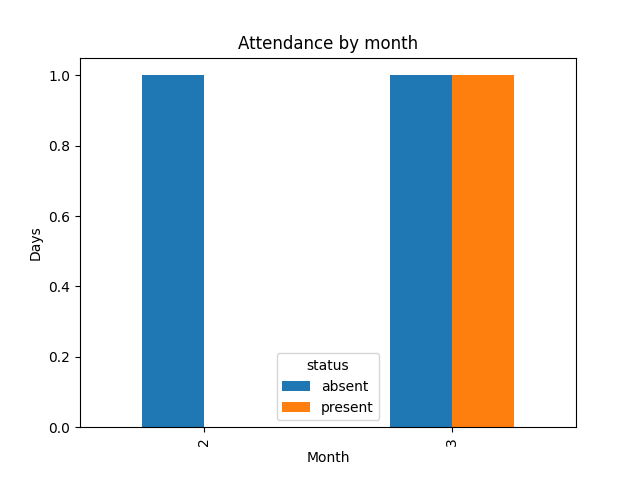
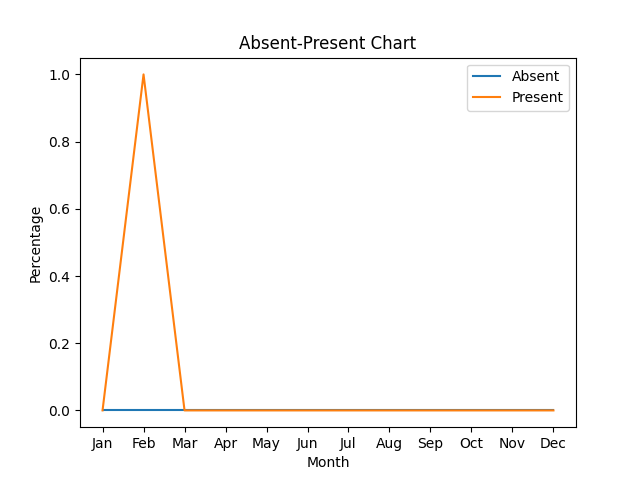
changes

diff --git a/app/student.py b/app/student.py
@@ -6,8 +6,12 @@ import time
 import base64
 import matplotlib.pyplot as plt
 import matplotlib
-import pandas as pd
 import itertools
+
+import pandas as pd
+import numpy as np
+from sklearn.linear_model import LinearRegression
+from sklearn.model_selection import train_test_split
 
 app = FastAPI()
 router = APIRouter()
@@ -25,6 +29,158 @@ def generate_roll_number(class_id):
         roll_number = 1
     return roll_number
 
+def getPrediction(current_mark,attendance,extra_activities):
+    try:
+        # Load the data into a pandas dataframe
+        data = {'Current Marks': [90, 85, 80, 75, 70, 65, 60, 55, 50, 45, 40, 35, 30, 25, 20, 15, 10, 5, 0],
+                'Attendance': [95, 85, 80, 90, 70, 75, 65, 70, 80, 75, 85, 80, 90, 70, 75, 65, 70, 80, 75],
+                'Extra Activities': [1, 1, 1, 0, 0, 0, 1, 1, 1, 0, 0, 0, 1, 1, 1, 0, 0, 0, 1],
+                'Final Marks': [92, 87, 82, 77, 72, 68, 63, 58, 53, 49, 44, 39, 34, 29, 24, 19, 14, 9, 4]}
+
+        df = pd.DataFrame(data)
+        print(len(data['Current Marks']))
+        # Split the data into training and testing sets
+        X = df[['Current Marks', 'Attendance', 'Extra Activities']]
+        y = df['Final Marks']
+        X_train, X_test, y_train, y_test = train_test_split(X, y, test_size=0.2)
+
+        # Train the linear regression model
+        reg = LinearRegression().fit(X_train, y_train)
+
+        # Make predictions on the test data
+        y_pred = reg.predict(X_test)
+
+        # Evaluate the model's accuracy
+        # r2 = reg.score(X_test, y_test)
+        # print("R2 Score:", r2)
+
+        # check accuracy in integer 
+        # print("R2 Score:", int(r2*100))
+
+        # check prediction of given data
+        # print("Prediction:", reg.predict([[90, 95, 1]]))
+        # print("Prediction:", reg.predict([[45, 30, 1]]))
+        predict = reg.predict([[current_mark, attendance, extra_activities ]])
+        predict = int(list(predict)[0])
+
+        return {"status" : True ,"message" : "Prediction found" ,"data":"Predicted marks is "+str(predict)+"%"}
+    except Exception as e:
+        return {"status" : False ,"message" : "Something wrong"}
+
+def getAttendancePerformanceFun(student_id):
+    try:
+        performance = list(db['student_attendance'].aggregate([
+            {
+                '$unwind': {
+                    'path': '$attendance'
+                }
+            }, {
+                '$match': {
+                    'attendance.student_id': ObjectId(student_id)
+                }
+            }, {
+                '$lookup': {
+                    'from': 'class', 
+                    'localField': 'class_id', 
+                    'foreignField': '_id', 
+                    'as': 'result'
+                }
+            }, {
+                '$lookup': {
+                    'from': 'students', 
+                    'localField': 'attendance.student_id', 
+                    'foreignField': '_id', 
+                    'as': 'student_result'
+                }
+            }, {
+                '$project': {
+                    'class_id': 1, 
+                    'class_name': {
+                        '$arrayElemAt': [
+                            '$result.name', 0
+                        ]
+                    }, 
+                    'student_name': {
+                        '$arrayElemAt': [
+                            '$student_result.first_name', 0
+                        ]
+                    }, 
+                    'date': {
+                        '$toDate': '$date'
+                    }, 
+                    'attendance': 1
+                }
+            }, {
+                '$group': {
+                    '_id': {
+                        'month': {
+                            '$month': '$date'
+                        }, 
+                        'status': '$attendance.status'
+                    }, 
+                    'count': {
+                        '$sum': 1
+                    }
+                }
+            }, {
+                '$project': {
+                    'month': '$_id.month', 
+                    'status': '$_id.status', 
+                    'count': 1, 
+                    '_id': 0
+                }
+            }
+        ]))
+        if not performance:
+            return {"status" : False ,"message" : "Data not found" ,"data":""}
+        #avargae attendance percentage of student
+        total_days = 0
+        present_days = 0
+        month = []
+        absent = []
+        present = []
+        for i in performance:
+            if i['status'] == 'present':
+                present_days += i['count']
+            total_days += i['count']
+        attendance_percentage = (present_days/total_days)*100 
+        # group performance array by month
+        performance = sorted(performance, key=lambda k: k['month'])
+        performance = [list(v) for k, v in itertools.groupby(performance, key=lambda k: k['month'])]
+        # months in string
+        months = ['Jan', 'Feb', 'Mar', 'Apr', 'May', 'Jun', 'Jul', 'Aug', 'Sep', 'Oct', 'Nov', 'Dec']
+        absent = [0] * 12  # Initialize absent list with 0 for all 12 months
+        present = [0] * 12  # Initialize present list with 0 for all 12 months
+
+        for item in performance:
+            for record in item:
+                if record['status'] == 'absent':
+                    absent[record['month'] - 1] = record['count']
+                elif record['status'] == 'present':
+                    present[record['month'] - 1] = record['count']  
+        matplotlib.pyplot.switch_backend('Agg')
+        # df = pd.DataFrame(performance)
+        
+        # Plot the data
+        plt.plot(months, absent, label='Absent')
+        plt.plot(months, present, label='Present')
+
+        # Set the chart title and labels
+        plt.title('Absent-Present Chart')
+        plt.xlabel('Month')
+        plt.ylabel('Percentage')
+
+        # Show the legend
+        plt.legend()
+
+        # Show the chart
+        # plt.show()
+
+        plt.savefig('./images/student_attendance_performance_report.png')
+        return attendance_percentage
+    except Exception as e:
+        print(e)
+        return {"status" : False ,"message" : "Something wrong"}
 
 @router.get("/attendance")
 def getAllAttendance():
@@ -173,7 +329,7 @@ def getPerformance(student_id,class_id):
         # Save the chart to a file
         plt.savefig('./images/student_performance_report.png')
 
-        getAttendancePerformance(student_id)
+        attendance_percentage = getAttendancePerformanceFun(student_id)
 
         # Get the list of marks
         marks = performance[0]['marks']
@@ -182,14 +338,24 @@ def getPerformance(student_id,class_id):
 
         # Create a dictionary to store the grouped data
         grouped_data = {}
+        total_mark = 0
+        total_obtained_mark = 0
         # Loop through the grouped marks
         for exam_name, marks in grouped_marks:
             # Convert the marks iterator to a list
             marks = list(marks)
             # Add the exam_name and marks to the grouped data dictionary
             grouped_data[exam_name] = marks
-
-        return {"status" : True ,"message" : "Performance found" ,"data":json.loads(json.dumps(grouped_data,default=str)),"mark":base64.b64encode(open('./images/student_performance_report.png', 'rb').read()).decode('utf-8'),"attendance":base64.b64encode(open('./images/student_attendance_performance_report.png', 'rb').read()).decode('utf-8')}
+            # Loop through the marks
+            for mark in marks:
+                # Add the mark to the total
+                total_mark += mark['out_of']
+                total_obtained_mark += mark['obtained_mark']
+        # Calculate the average
+        average = total_obtained_mark / total_mark * 100
+        # call prediction function
+        prediction = getPrediction(average,attendance_percentage,1)
+        return {"status" : True ,"message" : "Performance found" ,"data":json.loads(json.dumps(grouped_data,default=str)),"prediction":prediction['data'],"mark":base64.b64encode(open('./images/student_performance_report.png', 'rb').read()).decode('utf-8'),"attendance":base64.b64encode(open('./images/student_attendance_performance_report.png', 'rb').read()).decode('utf-8')}
     except Exception as e:
         print(e)
         return {"status" : False ,"message" : "Something wrong"}
@@ -262,6 +428,14 @@ def getAttendancePerformance(student_id):
         ]))
         if not performance:
             return {"status" : False ,"message" : "Data not found" ,"data":""}
+        #avargae attendance percentage of student
+        total_days = 0
+        present_days = 0
+        for i in performance:
+            if i['status'] == 'present':
+                present_days += i['count']
+            total_days += i['count']
+        attendance_percentage = (present_days/total_days)*100 
         matplotlib.pyplot.switch_backend('Agg')
         df = pd.DataFrame(performance)
 
@@ -603,6 +777,11 @@ async def getAttendance(date,class_id):
             return {"status" : True ,"message" : "Attendance found" ,"data":json.loads(json.dumps(attendance[0],default=str))}
         else:
             attendance = list(db['students'].aggregate([
+                    {
+                        '$match': {
+                            'class_id': ObjectId(class_id)
+                        }
+                    },
                     {
                         '$group': {
                             '_id': '$class_id', 
